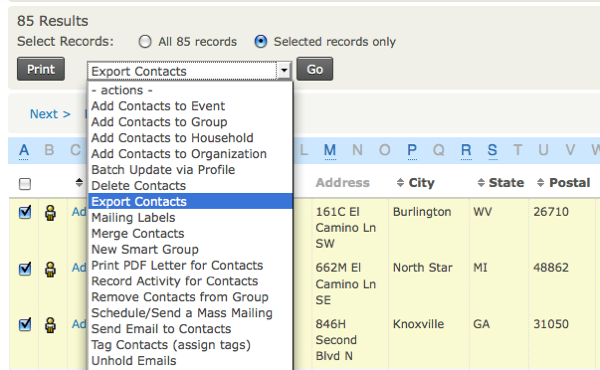
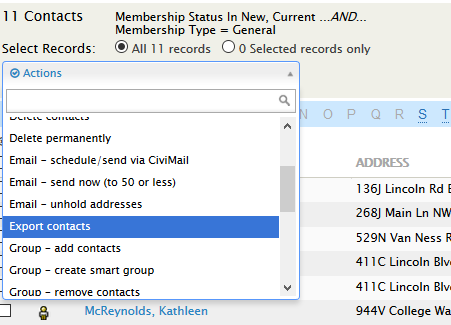
image and text updates for new actions menu

diff --git a/docs/contributions/finding-and-viewing-contributions.md b/docs/contributions/finding-and-viewing-contributions.md
@@ -1,4 +1,5 @@
 # Viewing the CiviContribute dashboard
+
 The CiviContribute main page or dashboard summarises the contributions made, including lists of contributions received in the current month to date, year to date, and cumulatively since inception (i.e. all contribution records in your CiviCRM installation). This allows you to easily browse contributions that have been recorded automatically or added manually. The dashboard also provides buttons to manage and add contribution pages.
 
 Different layouts are available for viewing summaries. The following screenshot shows the most recent contribution to a campaign using the Table Layout tab:
@@ -25,25 +26,16 @@ The results screen from a search displays the the total amount for the results r
 ![Screen shot batch update from search](../img/contributions-find-editcriteria.png)
 
 You can select an action to perform from the - actions - menu once you select all or a subset of records. The "actions" menu allows you to:
-- **Batch Update Contributions Via Profile**: this is useful if you
+- **Update multiple contributions**: This is useful if you want to update a large number of contributions' thank-you date at once, for example. You need to [create the profile](../organising-your-data/profiles) you want to use *before* you perform the search and batch update.
 
-  want to update a large number of contributions' thank-you date at
+- **Delete contributions**: This removes contributions entirely from the system, as if they had never been entered in the first place. Editing contributions and updating their status to canceled provides a better audit trail, but there may be situations where you do want to delete, such as a contribution entered on the wrong contact's record.
+- **Export contributions**: NOTE: This is an export of contibutions.  If you choose to export multiple contributions from the same contact you will end up with one row for each contribution in your export file. If you want to do searches that return one result per contact, use the contact advanced search.
 
-  once, for example. You need to create the profile you want to
 
-  use_before_ you perform the search and batch update (see the the
+- **Receipts - Print or Email Contribution **: This allows you to create a PDF file of all the receipts in the search, or email the receipts to the associated donors. See "Sending thank you letters" below for more information.
 
-  chapter Profiles in the Configuration section for more information
+- **Email - send now**: Send an email to all or selected contacts found in the search.
 
-  about creating profiles).
+- **Thank-you letters - print or email**: Create a custom PDF letter for each of the contributions selected, with the option to update the receipt or thank you date for each.
 
-- **Delete Contributions**: this removes contributions entirely from the system, as if they had never been entered in the first place. Editing contributions and updating their status to canceled provides a better audit trail, but there may be situations where you do want to delete, such as a contribution entered on the wrong contact's record.
-- **Export Contributions**: because this search is contribution-centric, it does not recognise if contributions come from the same contact. Therefore, if one contact has multiple contributions that fit the search criteria, that contact will appear as multiple rows when you export your spreadsheet. If you want to do searches that return one result per contact, use the contact advanced search.
-
-- **Print or Email Contribution Receipts**: this allows you to create a PDF file of all the receipts in the search, or email the receipts to the associated donors. See "Sending thank you letters" below for more information.
-
-- **Send Email to Contacts**: send an email to all or selected contacts found in the search.
-
-- **Send Thank-you Letters for Contributions**: create a custom PDF letter for each of the contributions selected, with the option to update the receipt or thank you date for each.
-
-- **Update Pending Contribution Status**: update the contribution status of all or selected contacts who have contributed online. This action only works with online contributions, and the same contribution status will be applied to all the contributions selected for updating.
+- **Update pending contribution status**: This allows you to record payments details and to update the contribution status for all or selected online "pay later" contributions. This action only works for contributions with the status of Pending (Pay Later) and the same contribution status will be applied to all the contributions selected for updating.

diff --git a/docs/common-workflows/exporting-your-contacts.md b/docs/common-workflows/exporting-your-contacts.md
@@ -1,3 +1,4 @@
+
 Exporting Your Contacts
 =======================
 
@@ -26,17 +27,16 @@ Here's how you can export contact information:
 1.  Search for contacts. Carry out a search based on your desired
     criteria using one of the available search tools, e.g. Quick search,
     Find Contacts, Advanced search, Search Builder, or a custom search
-    (you can find out more about performing searches in the Searching
-    chapter earlier in this section).
+    (You can find out more about performing searches in [Searching](../the-user-interface/searching).
 2.  Select contacts you wish to export. Select all records, or choose
     individual records for export using the check-boxes to the left of
     each record.
 3.  From the **- actions -** dropdown menu, choose **Export Contacts**
     as shown in the following figure.
-4.  Click **Go**. This takes you to the export wizard. 
-     
+4.  Click **Go**. This takes you to the export wizard.
+
     ![ExportFromSearch](../img/CiviCRM_update-CiviCore-ExportFromSearch-en.png "ExportFromSearch")
-    
+
 5.  **Export primary (default) or selected fields**. Choose between
     exporting the primary fields or selecting your own set of fields for
     export. The primary fields include all core contact fields with
@@ -51,17 +51,16 @@ Here's how you can export contact information:
     CiviCRM allows you to save this export mapping, which enables you to
     reuse the export field mapping at a later time. To save your
     selection of fields, click **Save this field mapping** at the bottom
-    of the form and enter a descriptive name for this type of export. 
-     
+    of the form and enter a descriptive name for this type of export.
+
     ![ExportSelectFlds](../img/CiviCRM_update-CiviCore-ExportSelectFlds-en.png "ExportSelectFlds")
-    
+
     ****
 8.  **Click Export to create your CSV file**. By default, a comma is
     used as the field separator for import and export functions. In some
     locales, other characters are used (e.g. a semi-colon). You can
     change the separator value by going to **Administer > Configure >
     Global Settings > Localization** and modifying the Import/Export
-    Field Separator. 
-     
-    ![s2](../img/CiviCRM-Export-resized_600x225_s2-en.jpg "s2") 
+    Field Separator.
 
+    ![s2](../img/CiviCRM-Export-resized_600x225_s2-en.jpg "s2")
